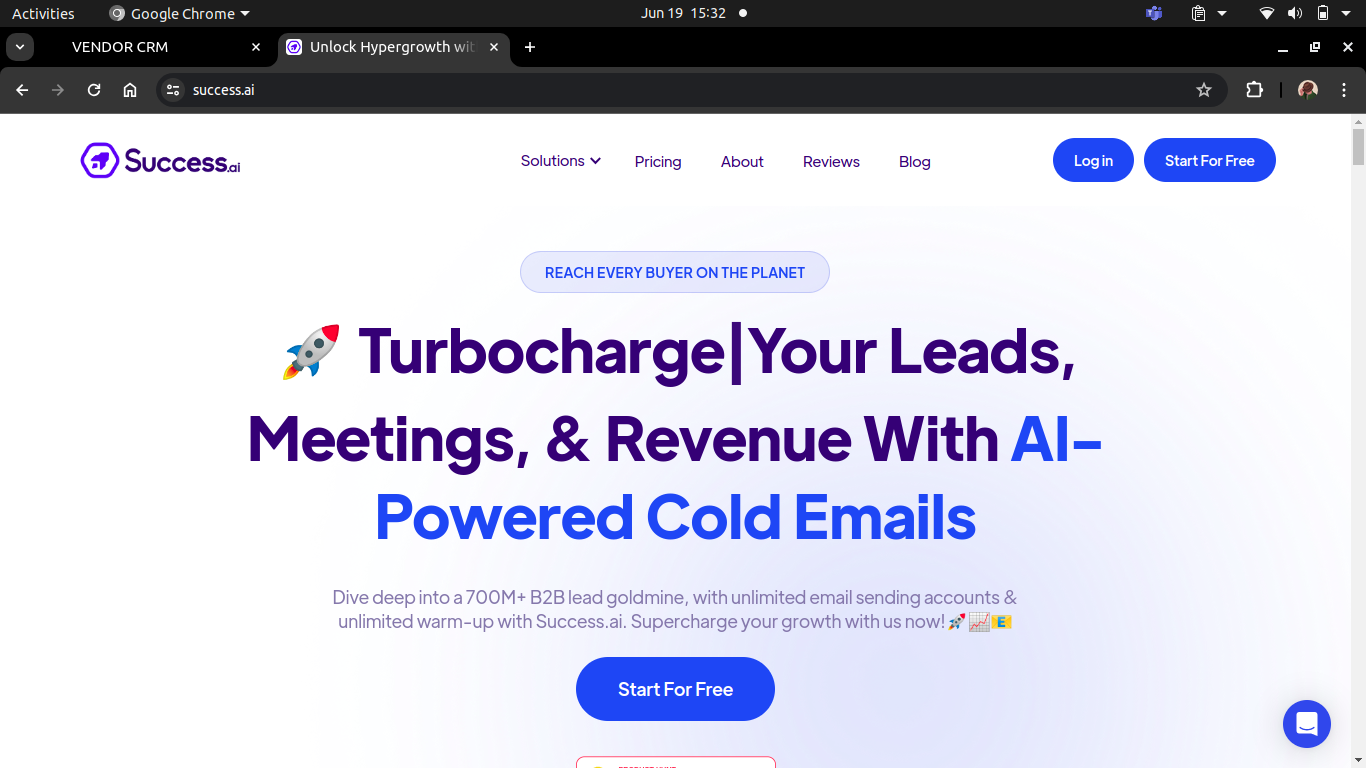
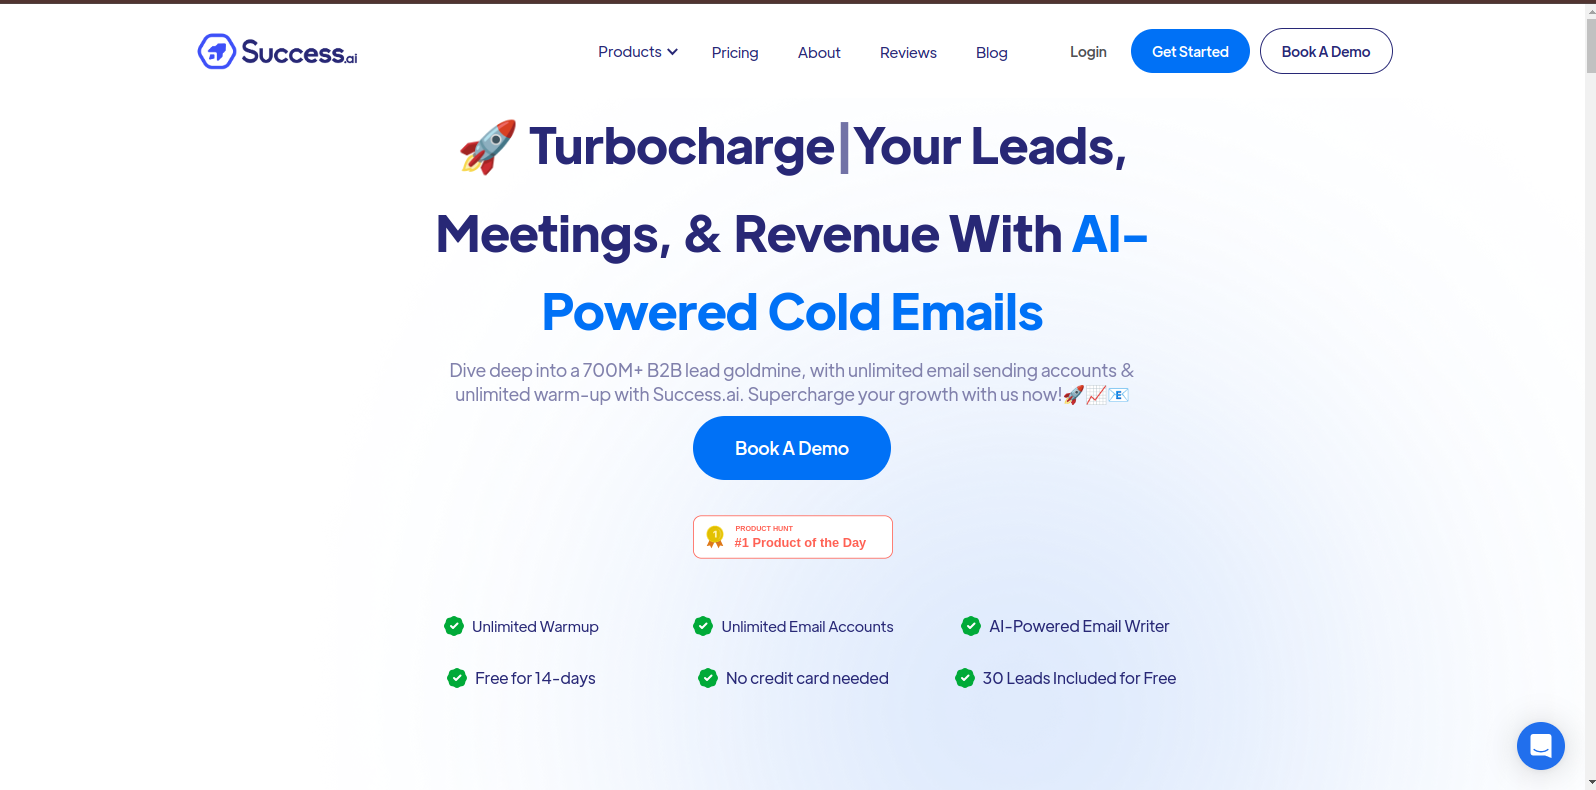
add contact api

diff --git a/src/components/portfolio.js b/src/components/portfolio.js
@@ -10,38 +10,39 @@ export default function Portfolio() {
       description:
         "It is an AI-powered platform designed to help businesses with cold email outreach. It focuses on improving deliverability and response rates through features like account warmup and campaign management.",
       image: "/images/success-ai.png",
-      links: [{ label: "View", url: "https://success.ai" }],
+      links: [{ label: "View", url: "https://www.success.ai" }],
     },
     {
       name: "Mister Z",
       description:
         "MisterZ is an ICO platform designed to facilitate the listing of ERC20 token projects, enable user investments in various projects, and provide a platform for auditors to conduct audits and participate in project voting.",
-      image: "/images/carousel/carousel-2.jpg",
-      links: [{ label: "View", url: "https://wethio.misterz.com" }],
+      image: "/images/misterz.png",
+      links: [{ label: "View", url: "https://www.misterz.com" }],
     },
     {
       name: "Bluechain",
       description:
         "Bluechain redefines cryptocurrency trading with a scalable, secure platform that leverages OKX's APIs to enable instant trades, real-time price tracking, and security with support for 2FA and authenticators.",
-      image: "/images/carousel/carousel-3.jpg",
-      links: [{ label: "View", url: "https://wethio.misterz.com" }],
+      image: "/images/bluechain.png",
+      links: [{ label: "View", url: "https://dev.bluechain.trade" }],
     },
   ];
 
   return (
     <section
       id="portfolio"
-      className="flex justify-center items-center flex-col gap-16 pt-28 max-w-7xl mx-auto px-5"
+      className="flex justify-center items-center flex-col gap-16 pt-28 max-w-7xl mx-auto px-8"
     >
       <SectionHeading label="Portfolio" />
-      <div className="flex gap-5">
+      <div className="flex flex-col items-center gap-5 xl:flex-row">
         {projects.map((project, index) => (
-          <div key={index} className="w-1/3 border-4 border-black">
+          <div key={index} className="md:w-1/2 xl:w-1/3 border-4 border-black">
             <Image
               src={project.image}
               alt={project.name}
-              width={700}
-              height={300}
+              width={500}
+              height={400}
+              className="w-full"
             />
             <div className="p-2 flex flex-col gap-2">
               <h2 className="font-bold">{project.name}</h2>

diff --git a/src/components/contact.js b/src/components/contact.js
@@ -1,21 +1,75 @@
+import { useState } from "react";
 import Button from "./common/button.js";
 import SectionHeading from "./common/section-heading.js";
 import TextArea from "./common/text-area.js";
 import TextField from "./common/text-field.js";
 
 export default function Contact() {
+  const [formData, setFormData] = useState({
+    name: "",
+    email: "",
+    phone: "",
+    message: "",
+  });
+
+  const handleChange = (event) => {
+    const data = { ...formData, [event.target.name]: event.target.value };
+    setFormData(data);
+  };
+
+  const handleSubmit = (event) => {
+    event.preventDefault();
+
+    fetch("/api/contact", { method: "POST", body: JSON.stringify(formData) });
+
+    // setFormData({
+    //   name: "",
+    //   email: "",
+    //   phone: "",
+    //   message: "",
+    // });
+  };
+
   return (
     <section
       id="contact"
       className="flex justify-center items-center flex-col gap-16 pt-28 pb-16 max-w-7xl mx-auto"
     >
       <SectionHeading label="Contact" />
-      <form className="flex justify-center items-center flex-col gap-10 w-full px-10 md:w-1/2">
-        <TextField name="name" placeholder="Enter your name*" />
-        <TextField name="email" placeholder="Enter your email*" />
-        <TextField name="phone" placeholder="Phone number" />
-        <TextArea name="message" placeholder="Your message*" />
-        <Button>Submit</Button>
+      <form
+        className="flex justify-center items-center flex-col gap-10 w-full px-10 md:w-1/2"
+        onSubmit={handleSubmit}
+      >
+        <TextField
+          name="name"
+          placeholder="Enter your name*"
+          type="text"
+          value={formData.name}
+          onChange={handleChange}
+          required
+        />
+        <TextField
+          name="email"
+          placeholder="Enter your email*"
+          type="email"
+          value={formData.email}
+          onChange={handleChange}
+        />
+        <TextField
+          name="phone"
+          placeholder="Phone number"
+          type="tel"
+          value={formData.phone}
+          onChange={handleChange}
+        />
+        <TextArea
+          name="message"
+          placeholder="Your message*"
+          value={formData.message}
+          onChange={handleChange}
+          required
+        />
+        <Button type="submit">Submit</Button>
       </form>
     </section>
   );

diff --git a/src/components/common/text-field.js b/src/components/common/text-field.js
@@ -1,10 +1,11 @@
-export default function TextField({ name, placeholder }) {
+export default function TextField({ name, placeholder, ...props }) {
   return (
     <input
       type="text"
       className="w-full border-l-4 border-b-4 border-black outline-none bg-inherit p-3"
       name={name}
       placeholder={placeholder}
+      {...props}
     />
   );
 }

diff --git a/src/components/common/text-area.js b/src/components/common/text-area.js
@@ -1,10 +1,11 @@
-export default function TextArea({ name, placeholder }) {
+export default function TextArea({ name, placeholder, ...props }) {
   return (
     <textarea
       rows={5}
       className="w-full border-l-4 border-b-4 border-black outline-none bg-inherit p-3"
       name={name}
       placeholder={placeholder}
+      {...props}
     />
   );
 }

diff --git a/src/components/common/button.js b/src/components/common/button.js
@@ -1,8 +1,9 @@
-export default function Button({ children, onClick }) {
+export default function Button({ children, onClick, ...props }) {
   return (
     <button
       className="button uppercase font-bold border-x-2 border-black py-1 px-8 focus-visible:outline-0"
       onClick={onClick}
+      {...props}
     >
       {children}
     </button>

diff --git a/src/app/api/contact/route.js b/src/app/api/contact/route.js
@@ -1,0 +1,4 @@
+export async function POST(request) {
+  console.log(await request.json());
+  return Response.json({ message: "Hello from Next.js!" });
+}
